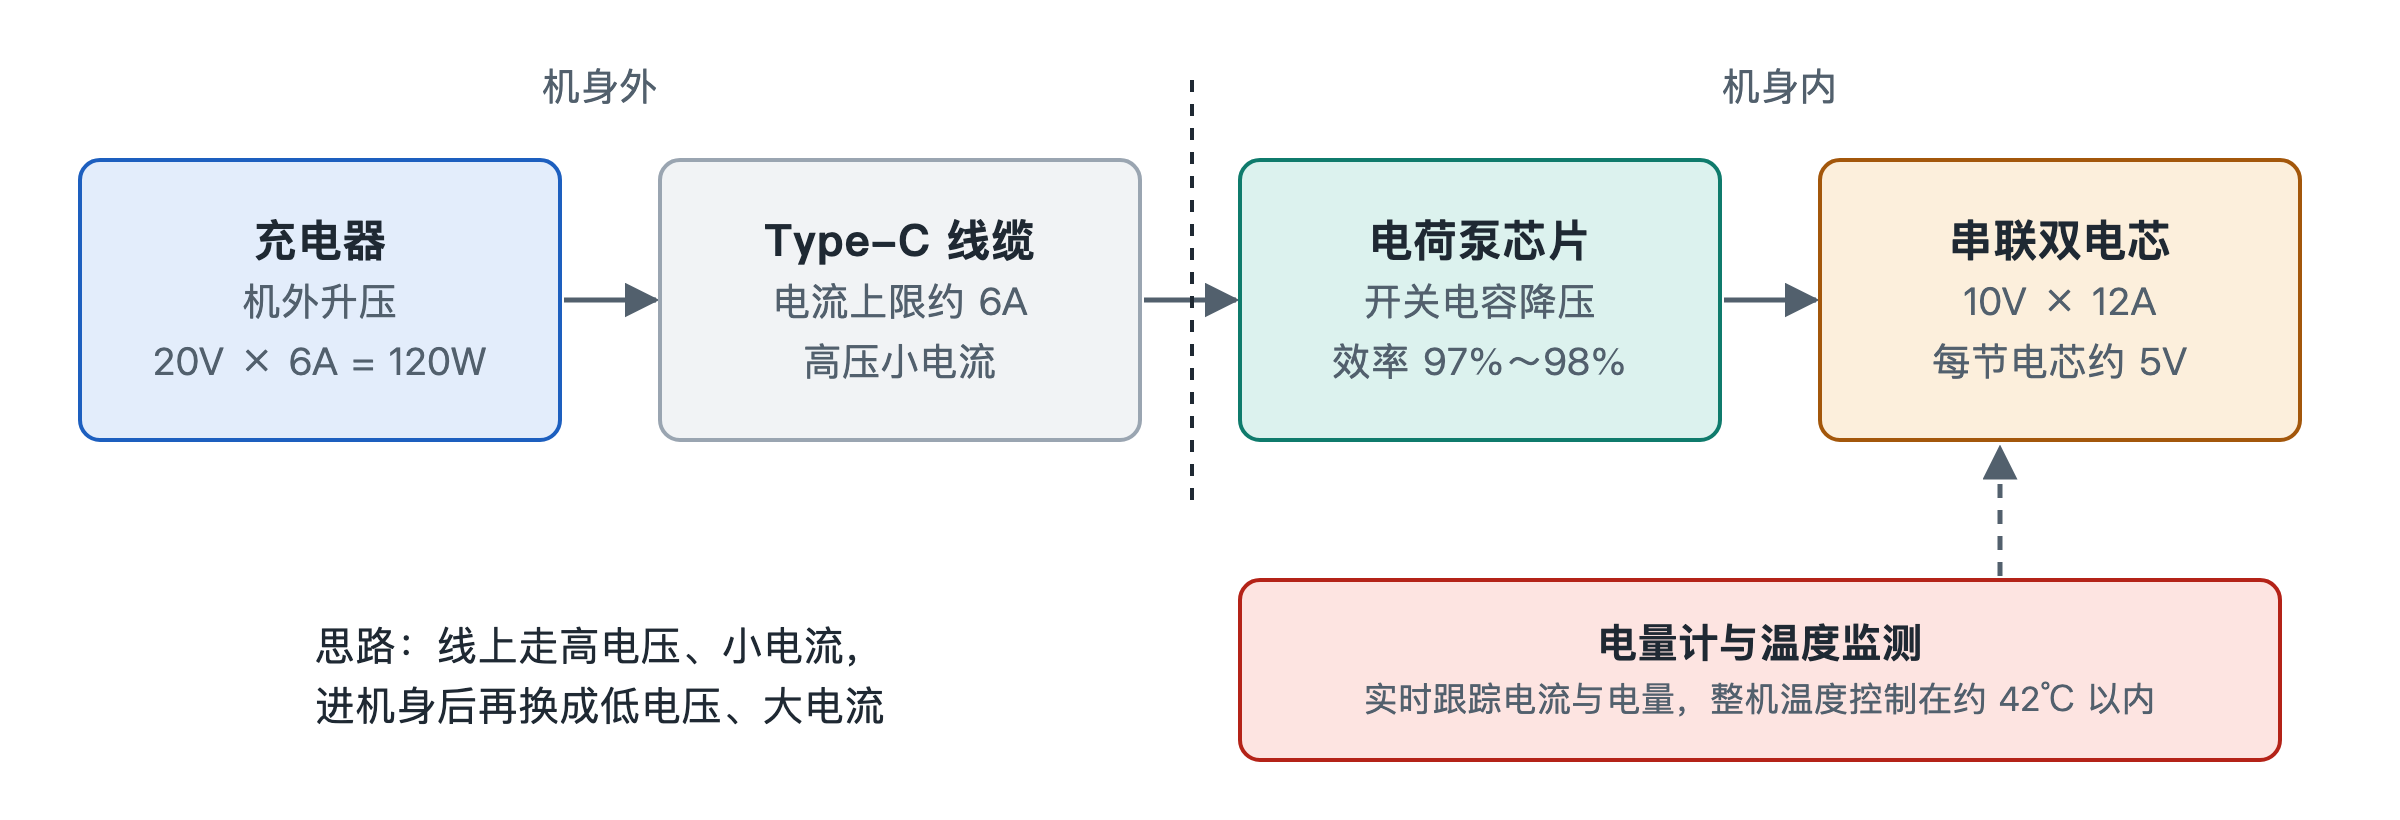
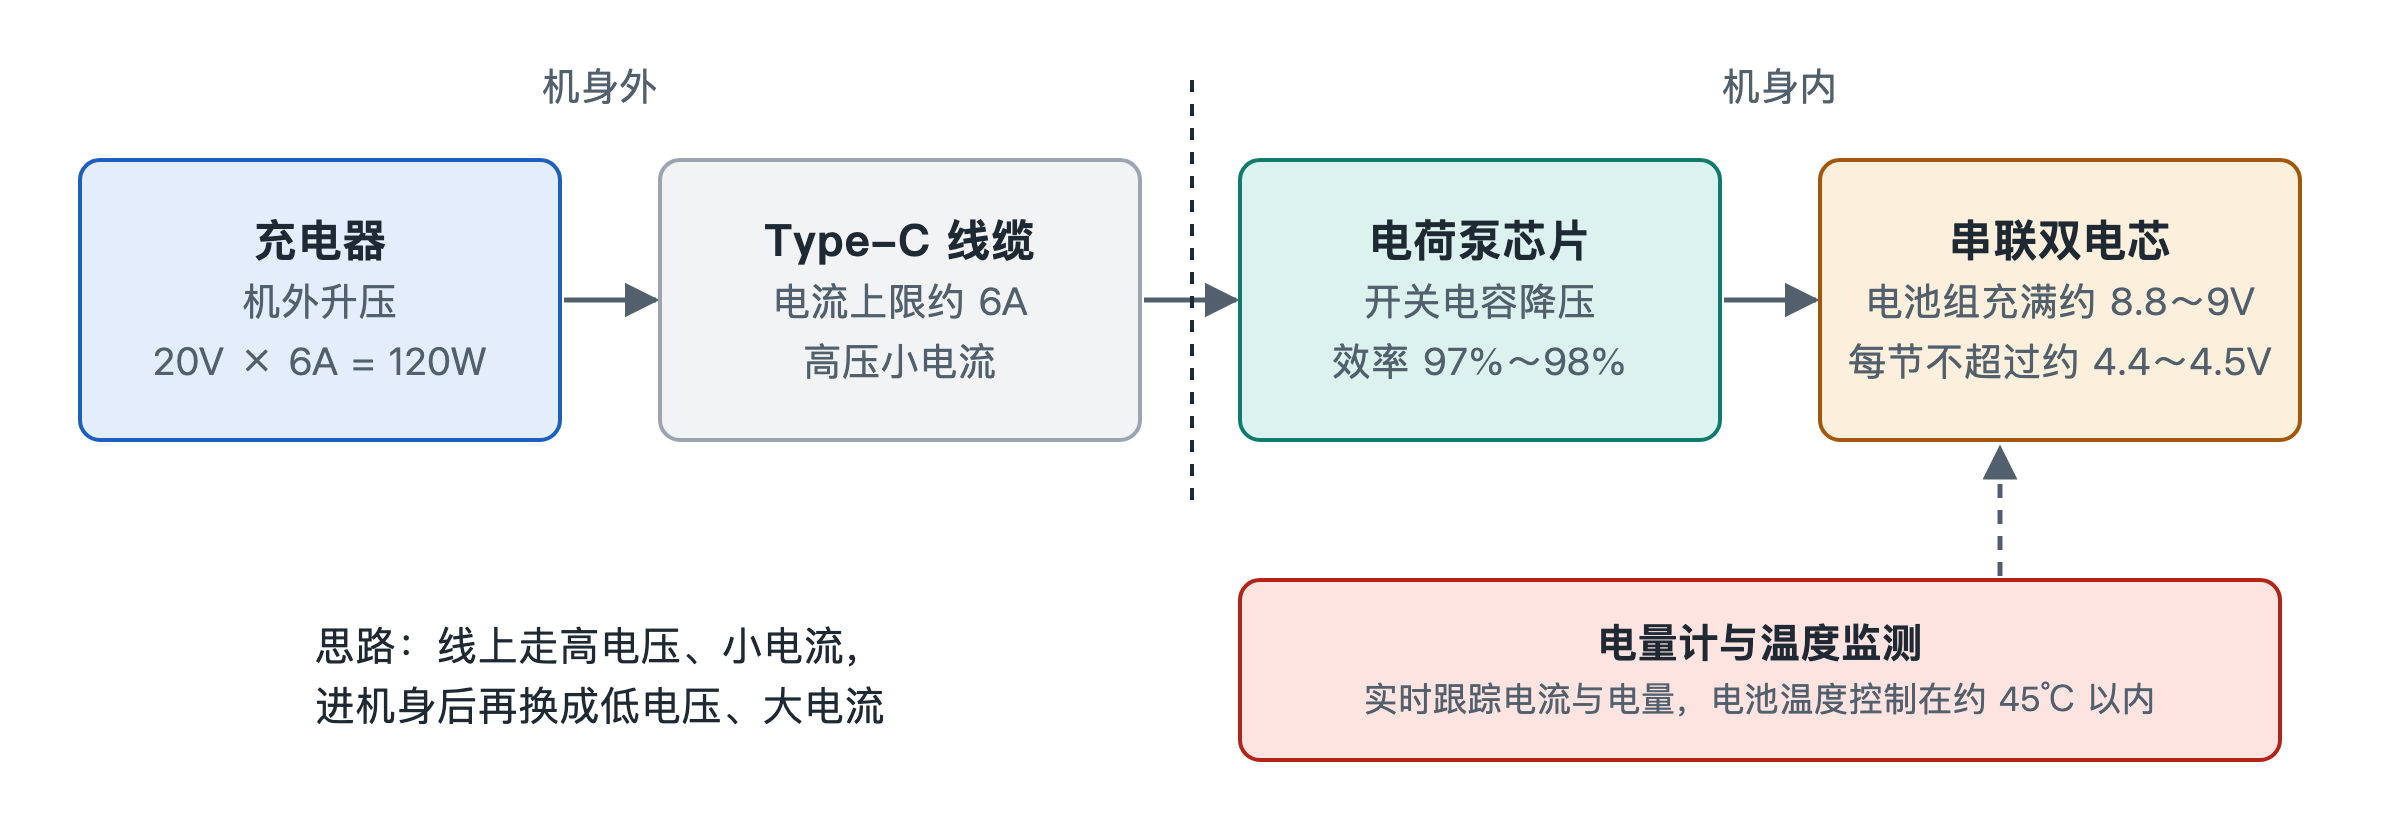
智能手机: corrected figures 1-1, 5-1, 6-1; revision record updated

Changed region(s): [[0.75, 0.3354, 0.9688, 0.4573], [0.7188, 0.8232, 0.75, 0.8841]]

diff --git a/books/smartphone/src/revisions.md b/books/smartphone/src/revisions.md
@@ -3,7 +3,7 @@
 | 版本 | 日期 | 说明 |
 |---|---|---|
 | 初版 | 2026-10-25 | 以已有原稿为事实依据，由 SageWrite 逐节改写成书，共 46 节，约 8.5 万字；同时出英文版、繁体版 |
-| 第 2 版（简体） | 2026-10-27 | 根据本次事实核查修订 16 节，共 43 处；重新生成 Word、EPUB、PDF |
+| 第 2 版（简体） | 2026-10-27 | 根据本次事实核查修订 16 节共 43 处正文，以及 3 幅插图；重新生成 Word、EPUB、PDF，并发布网页版 |
 
 # 一、检查
 
@@ -49,14 +49,25 @@
 | 第 36 节（5 处） | BQ27Z561 供电引脚耐压 -0.3V 至 6.0V；库仑计积分精度 0.1% | 耐压改为定性描述；精度改为规格书标明的「输入失调误差典型值小于 1 微伏」 | TI 规格书特性列表中可确认失调误差小于 1 µV（典型值）及 SHA-256 认证；耐压表与 0.1% 未能取得原文 |
 | 第 06 节（2 处） | SLP 先进的做到 15/15 μm 线宽线距 | 删去，保留「30 微米以下」 | 未找到可靠来源 |
 
+## 6. 插图（发布网页版时发现）
+
+第一次核查只查了正文，插图里的文字没有查。发布网页版时发现三幅图重复了正文里已改正的说法，一并修改：
+
+| 图 | 原文 | 修改为 |
+|---|---|---|
+| 图 1-1 | 不能装风扇，表面温度需低于 48℃ | 不能装风扇，表面不能烫手 |
+| 图 5-1（快充） | 串联双电芯：10V × 12A，每节电芯约 5V；整机温度控制在约 42℃ 以内 | 电池组充满约 8.8～9V，每节不超过约 4.4～4.5V；电池温度控制在约 45℃ 以内 |
+| 图 6-1（温控阶梯） | 表面温度 48℃：人体接触红线 | 表面温度：人手长时间触摸的上限；横轴注明「阈值为示意，各厂商不同」 |
+
 # 三、没有修改、需要注意的
 
-- **英文版（The Smartphone）和繁体版（智慧型手機）尚未同步修改**，仍包含上述问题，需要对第 02、04、06、10、11、19、23、24、25、26、29、32、34、36、37、45 节重新翻译后再成书。
+- **英文版（The Smartphone）和繁体版（智慧型手機）尚未同步修改**，正文和插图仍包含上述问题，需要对第 02、04、06、10、11、19、23、24、25、26、29、32、34、36、37、45 节重新翻译后再成书。
 - 原稿带来的其他具体数据（如 BTB 连接器间距、均热板厚度、马达启停时延、扬声器吸音材料等）本次只做了合理性判断，没有逐条联网查证。
 
 # 四、文件
 
-- 修改前的 46 节原文备份在书的工作区 `back/factcheck-20261027/`。
+- 修改前的 46 节原文和 3 幅原图备份在书的工作区 `back/factcheck-20261027/`。
+- 网页版（征求意见稿）：https://wenmin20212-dotcom.github.io/ai-era-system-books/smartphone/
 - 核查报告：《智能手机》简单事实核查（2026-10-27）。
 - 本次 PDF 改用丛书统一的生成方式（Word 转网页后用 Chrome 打印），版式与第 17–24 册一致。
 
